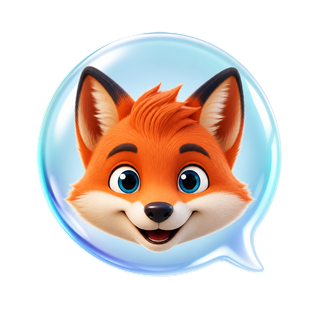
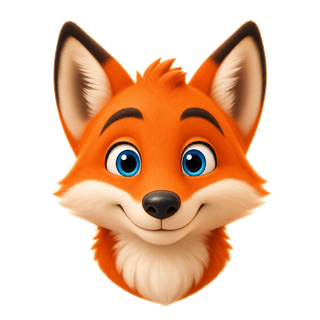
fix: deja a Alex sin burbuja

diff --git a/front-end/src/components/student/student-help-chat.tsx b/front-end/src/components/student/student-help-chat.tsx
@@ -104,6 +104,6 @@ export function StudentHelpChat() {
       </div>
       <div className="border-t border-border bg-card p-3"><button type="button" onClick={contactar} className="mb-2 flex items-center gap-1.5 text-xs font-medium text-primary hover:underline"><BookOpenText className="size-3.5" />{labels.contact}</button><form className="flex items-center gap-2" onSubmit={(event) => { event.preventDefault(); enviar() }}><input value={draft} onChange={(event) => setDraft(event.target.value)} placeholder={labels.placeholder} maxLength={500} className="min-w-0 flex-1 rounded-xl border border-input bg-background px-3 py-2.5 text-sm outline-none transition focus:border-primary focus:ring-3 focus:ring-primary/15" /><button type="submit" disabled={!draft.trim() || typing} aria-label={labels.send} className="flex size-10 shrink-0 items-center justify-center rounded-xl bg-primary text-primary-foreground shadow-sm transition hover:brightness-105 disabled:opacity-45"><PaperPlaneTilt className="size-4" weight="fill" /></button></form></div>
     </section>}
-    <button type="button" onClick={() => setOpen((value) => !value)} aria-label={open ? 'Close Alex' : labels.title} title={open ? 'Close Alex' : labels.title} className="group relative flex size-14 items-center justify-center overflow-hidden rounded-[1.15rem] bg-primary/10 shadow-[0_16px_34px_-12px_color-mix(in_srgb,var(--primary)_80%,transparent)] ring-1 ring-primary/25 transition hover:scale-105 hover:ring-primary/45 active:scale-95"><span className="absolute inset-0 rounded-[1.15rem] bg-primary/25 blur-lg transition group-hover:blur-xl" /><img src="/brand/alex-fox.png" alt="" className="relative size-full scale-110 object-contain" /></button>
+    <button type="button" onClick={() => setOpen((value) => !value)} aria-label={open ? 'Close Alex' : labels.title} title={open ? 'Close Alex' : labels.title} className="group relative flex size-14 items-center justify-center overflow-hidden rounded-[1.15rem] bg-primary/10 shadow-[0_16px_34px_-12px_color-mix(in_srgb,var(--primary)_80%,transparent)] ring-1 ring-primary/25 transition hover:scale-105 hover:ring-primary/45 active:scale-95"><span className="absolute inset-0 rounded-[1.15rem] bg-primary/25 blur-lg transition group-hover:blur-xl" /><img src="/brand/alex-fox.png" alt="" className="relative size-full object-contain" /></button>
   </div>
 }
